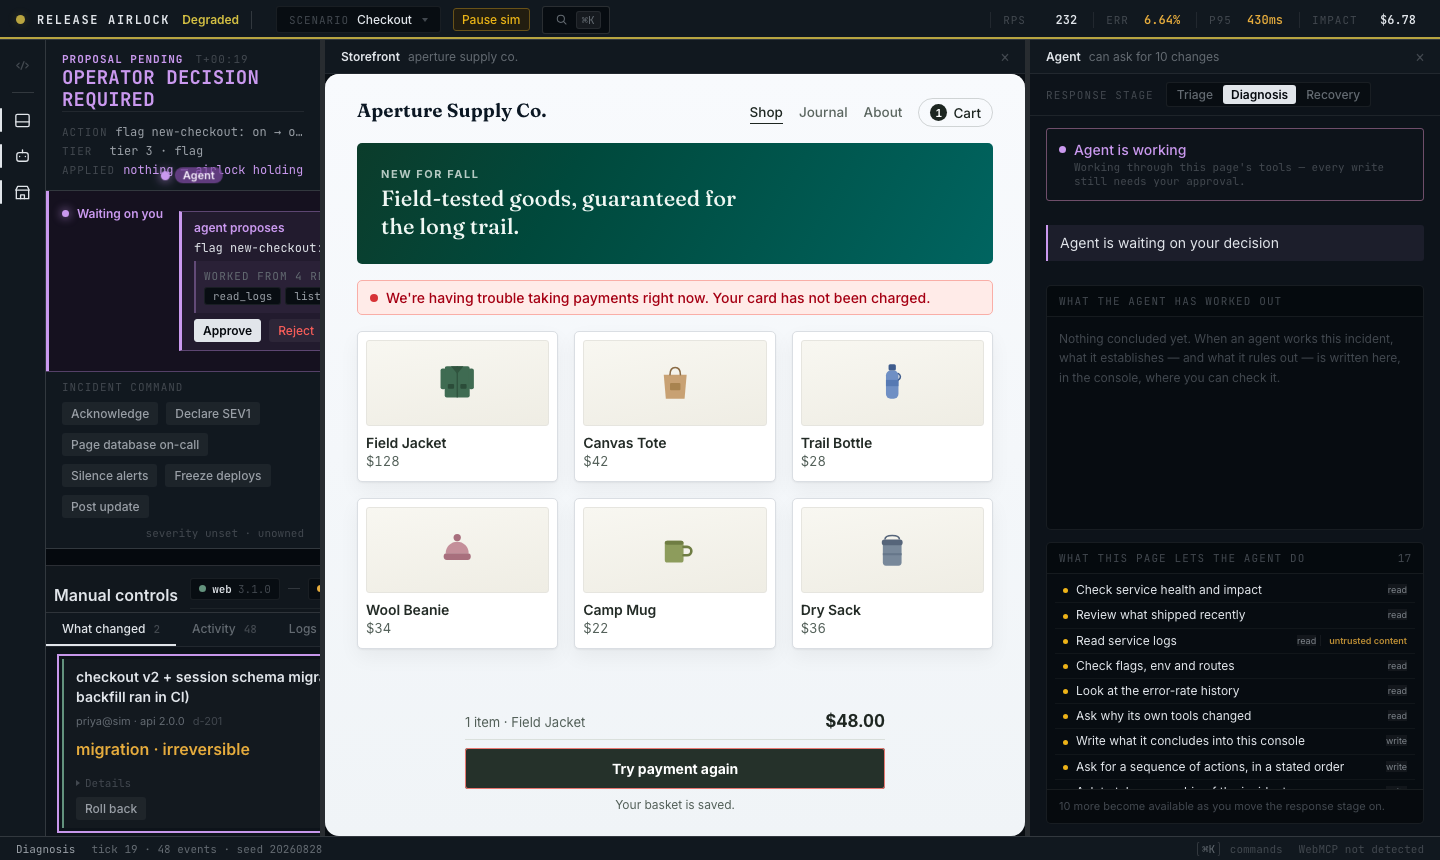
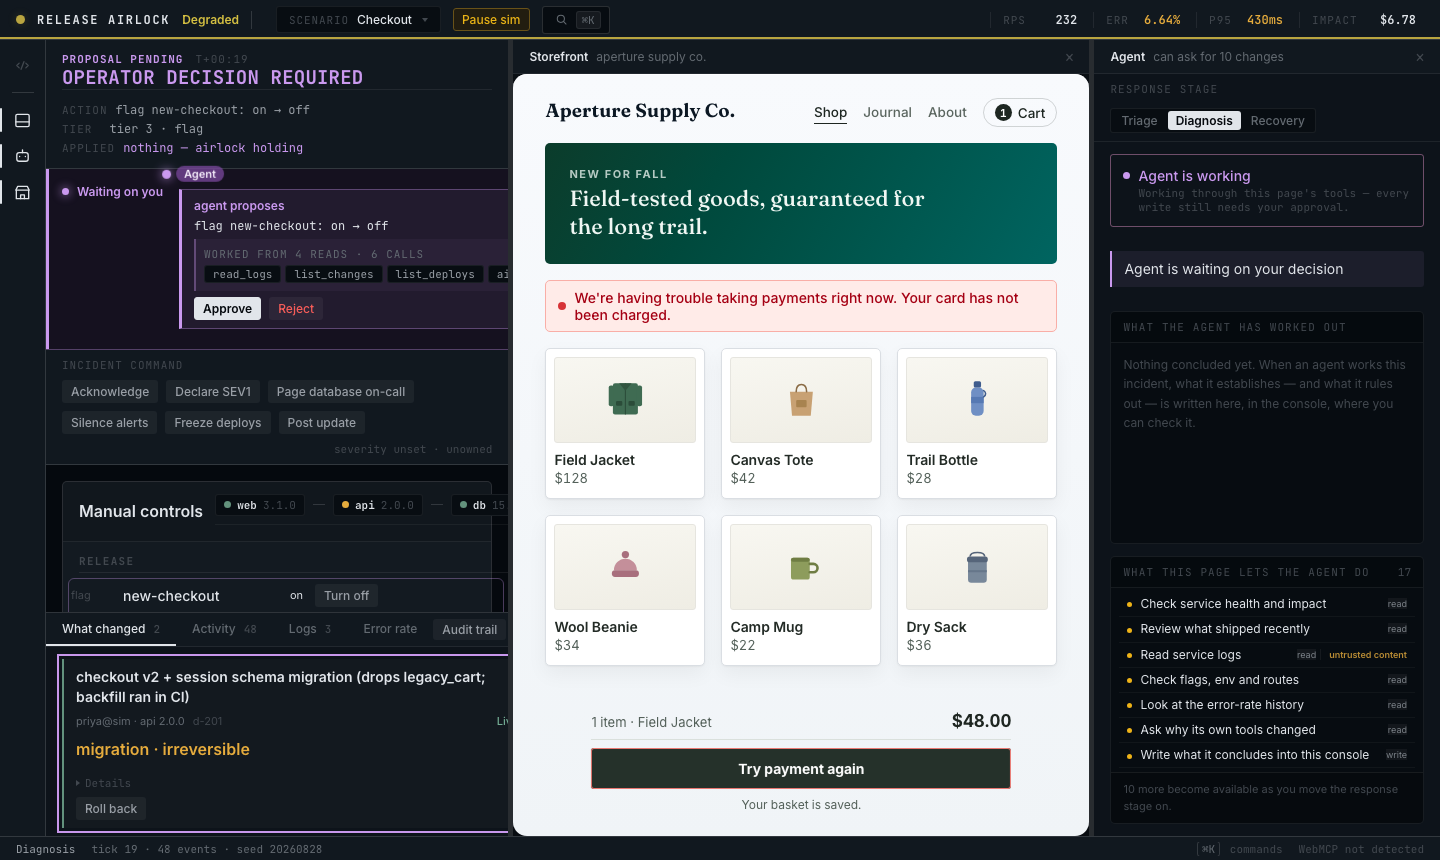
layout: the console survives 1120px, and the deck stops leaving bare ground
Found by extending the UX sweep to the agent-UX states and running all four
viewports. Two defects, both contradicting something docs/ux-debt.md had
recorded as settled.

The dock widths are FIXED grid tracks. At 1120px 46 + 700 + 410 + sashes
exceeds the viewport, so the centre collapsed to nothing and the storefront —
which reveals ITSELF when checkout starts failing — covered the console
completely. The operator lost the thing they were meant to be operating at
the exact moment it began to matter, and the sweep could not click the Logs
tab at all. The docks now yield below 1500px. Nothing at 1920px or above
changes, so the ultra and wide layouts are untouched; desk gains 188px of
centre and narrow gains a console at all.

Second: ux-debt claimed the remaining voids were inside card edges and
therefore honest. Measured, the deck's second row is 593px 593px, and
#zone-holding is display:none whenever nothing is held — 593x261 of BARE
GROUND, which rule 1 of that document forbids. The status page takes the row
when nothing is held and yields the column back the moment something is.

Worth knowing: :has() cannot be nested inside :has(). The first attempt
parsed and silently matched nothing.

capture-ux.mjs now shoots the logs pane, the filtered pane, and the plan at
all three of its stages, on retry-storm. Four viewports, zero console errors.

smoke GREEN alone
Shots: log/ux/*, log/ux-deck-full.png, log/ux-deck-held.png
[…]

diff --git a/src/styles/shell.css b/src/styles/shell.css
@@ -2344,6 +2344,14 @@ h4.ctl-group-label { margin: 0 0 var(--sp-2); }
 
 /* A panel with nothing to say should not claim a panel's worth of space. */
 #zone-holding:not(:has(.holding)) { display: none; }
+/* ...but a hidden grid child still leaves its 593px track as BARE GROUND at
+   2400px — half the deck's second row was black, which is the one thing this
+   layout's own first rule forbids. The status page takes the whole row when
+   nothing is being held, and yields it back the moment something is.
+   (:has() cannot be nested inside :has(), so this asks the deck directly.) */
+#control-deck:not(:has(.holding)) #zone-command {
+  grid-column: 1 / -1;
+}
 
 /* --- deploy cards: a summary you can read, detail on demand --------------
    Sid, several times: "the text is so compressed in those cards, and
@@ -2454,6 +2462,18 @@ h4.ctl-group-label { margin: 0 0 var(--sp-2); }
      and the centre still keeps the remaining slack */
   --w-site: 700px;
   --w-rail: 410px;
+}
+/* ...but those are FIXED grid tracks, and the centre is the console the whole
+   product is. Below ~1500px 46 + 700 + 410 + sashes leaves the centre under
+   350px, and at 1120px the sum EXCEEDS the viewport: the storefront revealing
+   itself mid-incident hid the console completely, so the operator lost the
+   thing they were meant to be operating exactly when it mattered. The docks
+   yield instead. Nothing at 1920px or above changes. */
+@media (max-width: 1500px) {
+  :root {
+    --w-site: min(700px, 40vw);
+    --w-rail: min(410px, 24vw);
+  }
 }
 /* the deck fills the region it is given, and its rows share the height —
    two cards breathing beats two cards above a strip of bare ground */
